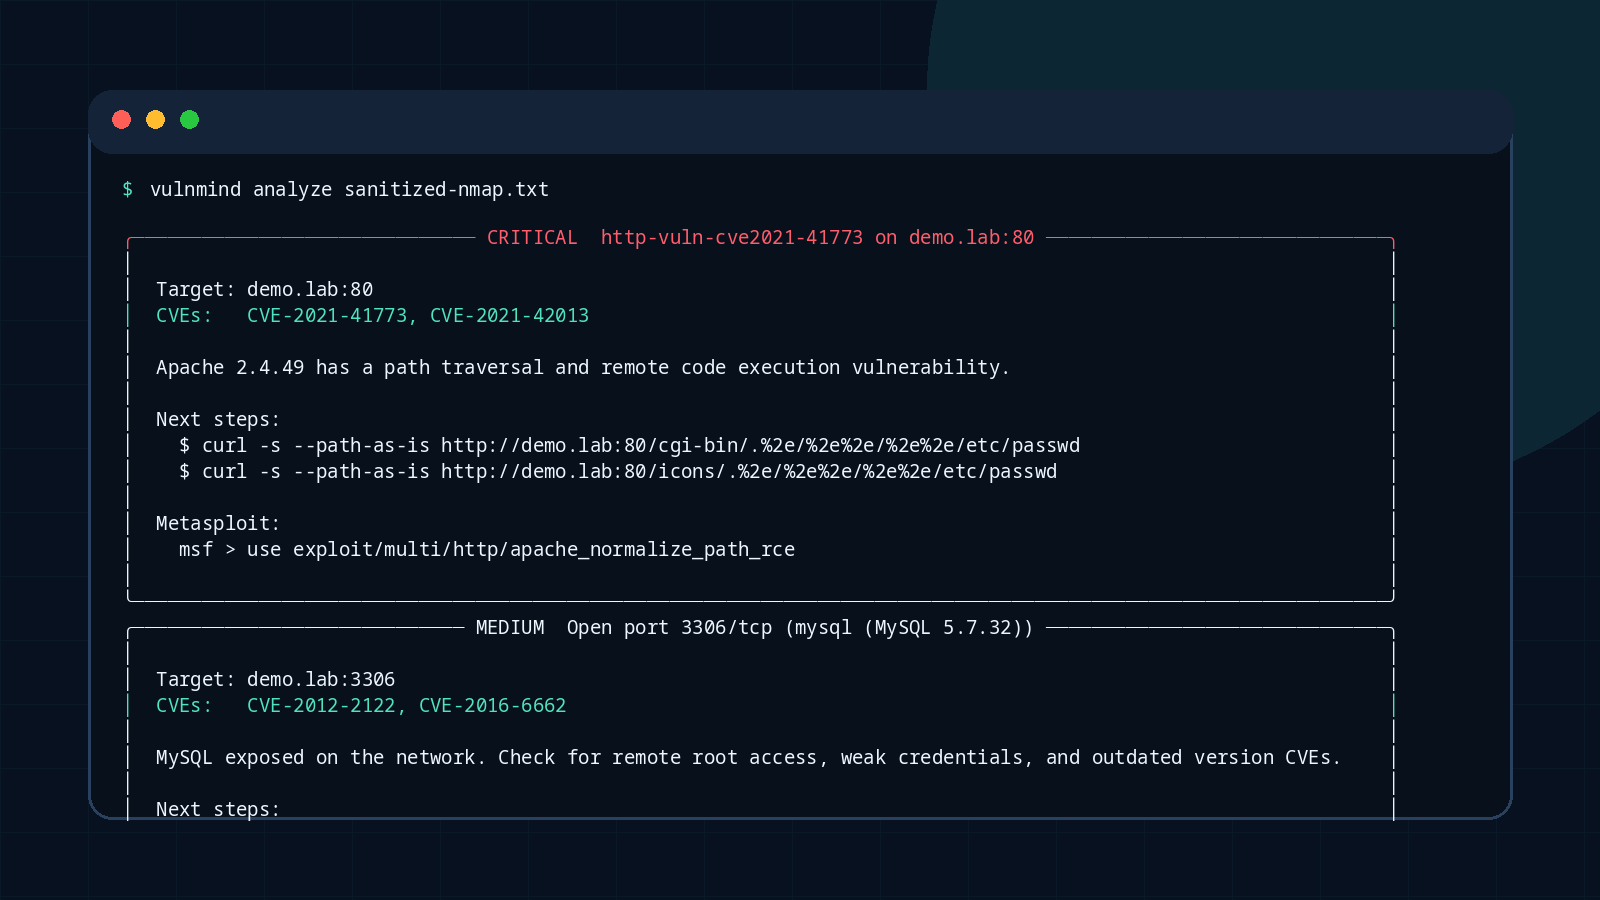
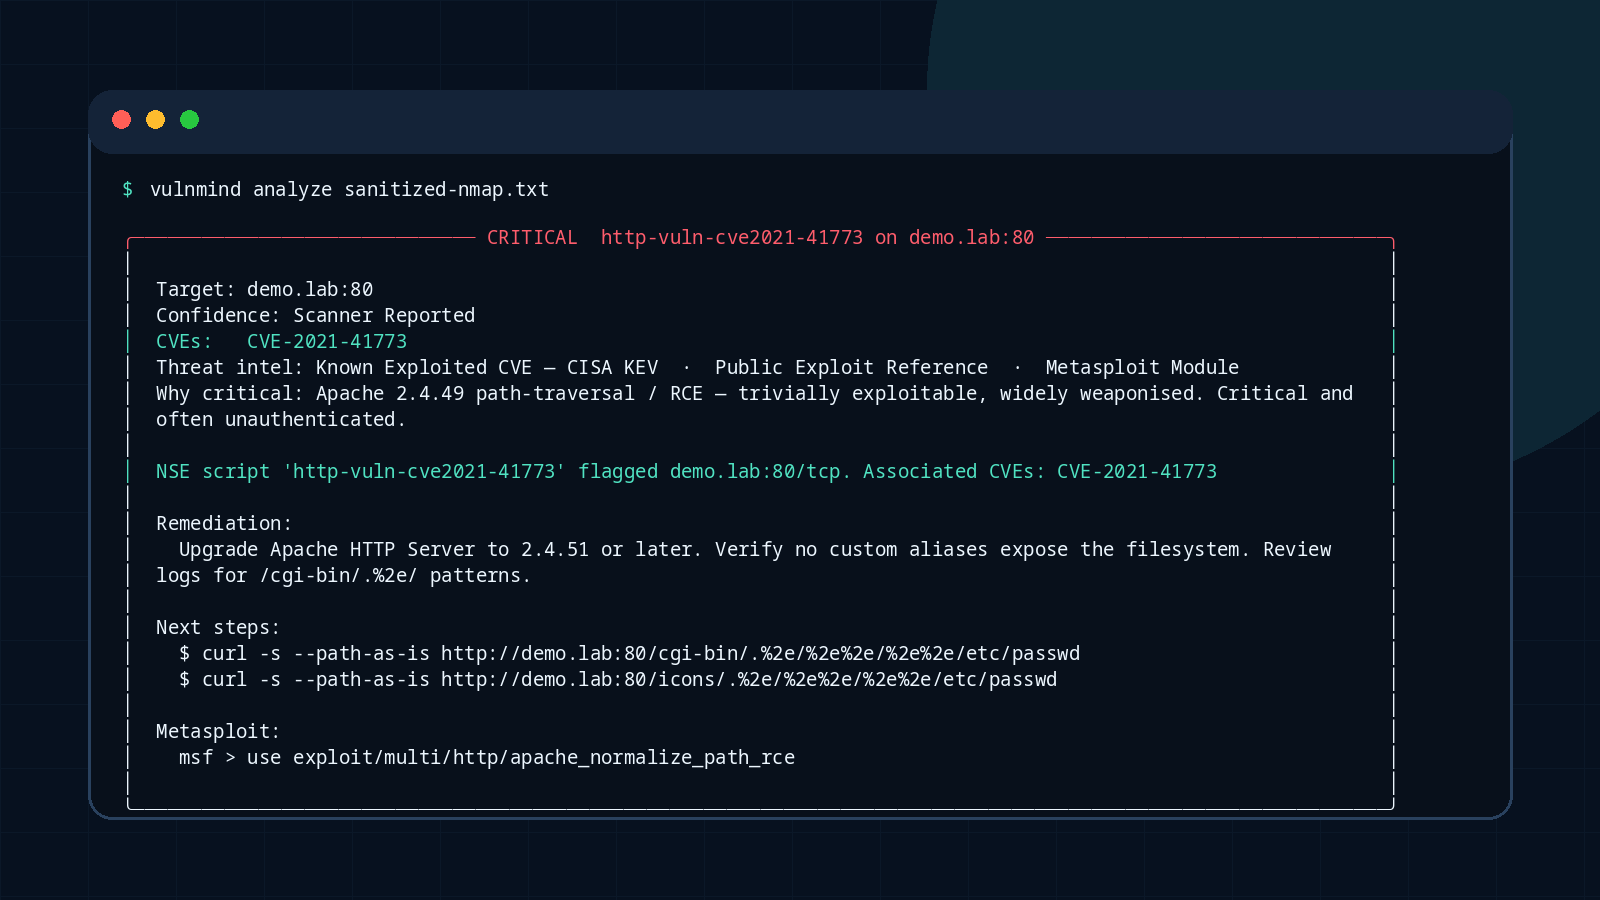
Refresh launch media for current main

diff --git a/tools/demo/render_media.py b/tools/demo/render_media.py
@@ -155,7 +155,11 @@ def terminal_image(size, output: str, command: str, start: str | None = None,
 
 
 def run_cli() -> tuple[str, str, Path]:
-    env = os.environ | {"NO_COLOR": "1", "COLUMNS": "112"}
+    env = os.environ | {
+        "NO_COLOR": "1",
+        "COLUMNS": "112",
+        "VULNMIND_UPDATE_CHECKS": "off",
+    }
     command = [str(CLI), "analyze", str(FIXTURE), str(MSF_FIXTURE)]
     result = subprocess.run(command, cwd=ROOT, env=env, text=True,
                             stdout=subprocess.PIPE, stderr=subprocess.STDOUT, check=True)
@@ -218,11 +222,11 @@ VulnMind turns scanner output into prioritized security findings.
 
 3
 00:00:13,000 --> 00:00:28,000
-Not just CVEs: target, evidence, context and priority.
+Not just CVEs: confidence, evidence, context and priority.
 
 4
 00:00:28,000 --> 00:00:40,000
-Nmap, Nikto and Metasploit. Terminal and PDF.
+Nmap, Nuclei, Nikto and Metasploit. Terminal, JSON and PDF.
 
 5
 00:00:40,000 --> 00:00:52,000
@@ -230,7 +234,7 @@ Open source at github.com/Sombra-1/vulnmind
 """)
     (OUTPUT / "vulnmind-linkedin-post.md").write_text("""I built VulnMind to make scanner output easier to act on.
 
-It parses Nmap XML/text, Nikto text, and Metasploit console output, normalizes
+It parses Nmap XML/text, Nuclei JSONL, Nikto text, and Metasploit console output, normalizes
 the findings, and uses an offline knowledge base to add priority, CVE context,
 suggested verification commands, and relevant Metasploit modules. The result
 stays explainable: you can trace each finding back to the scanner evidence.
@@ -261,8 +265,8 @@ Only test systems you own or are explicitly authorized to assess.
 
 - 0–3s: Which scanner issue matters?
 - 3–13s: Raw file to prioritized findings.
-- 13–28s: Evidence, target, CVE context, and priority.
-- 28–40s: Supported inputs and outputs, then PDF.
+- 13–28s: Confidence, evidence, target, CVE context, and priority.
+- 28–40s: Supported inputs and terminal/JSON/PDF outputs.
 - 40–52s: Open-source closing card and repository URL.
 
 No narration or music is included; every message is burned into the image.
@@ -340,8 +344,8 @@ def main():
     report = pdf_preview.resize((1920, 1080), Image.Resampling.LANCZOS)
     pipeline = card(
         (1920, 1080), "One offline analysis pipeline.",
-        "Content detection → parsing → normalization → knowledge matching → terminal / PDF",
-        "Nmap XML + text · Nikto text · Metasploit console",
+        "Detection → parsing → matching → optional NVD / KEV / exploit intelligence → outputs",
+        "Nmap · Nuclei · Nikto · Metasploit → Terminal · JSON · PDF",
     )
     close = card(
         (1920, 1080), "Open source. Built for authorized testing.",
@@ -367,8 +371,8 @@ def main():
         start="╭", max_lines=18,
     )
     li_context = card(
-        (1080, 1350), "Not just CVEs.\nEvidence, context and priority.",
-        "CRITICAL · demo.lab:80 · CVE-2021-41773",
+        (1080, 1350), "Not just CVEs.\nConfidence, context and priority.",
+        "CRITICAL · Scanner Reported · demo.lab:80 · CVE-2021-41773",
         "Offline knowledge match",
         ["WHY IT MATTERS", "Apache 2.4.49 path traversal / RCE context",
          "", "NEXT STEP", "Version-specific verification command",
@@ -376,8 +380,8 @@ def main():
         RED,
     )
     li_report = card(
-        (1080, 1350), "Nmap · Nikto · Metasploit",
-        "Terminal · PDF",
+        (1080, 1350), "Nmap · Nuclei · Nikto · Metasploit",
+        "Terminal · JSON · PDF",
         "Supported today",
         ["$ vulnmind analyze sanitized-nmap.txt --report pdf",
          "", "REPORT SAVED", "vulnmind_report.pdf"],

diff --git a/README.md b/README.md
@@ -1,5 +1,7 @@
 # VulnMind
 
+![VulnMind — turn scanner output into prioritized, explainable security findings](docs/assets/vulnmind-banner.png)
+
 [![CI](https://github.com/Sombra-1/vulnmind/actions/workflows/ci.yml/badge.svg)](https://github.com/Sombra-1/vulnmind/actions/workflows/ci.yml)
 [![Python](https://img.shields.io/badge/python-3.10%2B-blue.svg)](https://www.python.org/)
 [![License: MIT](https://img.shields.io/badge/License-MIT-green.svg)](LICENSE)
@@ -7,6 +9,13 @@
 Security scan analyzer for pentesters. Parse nmap, Nuclei, nikto, and Metasploit console output into structured findings with explicit match confidence, CVE/CVSS context, CISA Known Exploited Vulnerabilities (KEV), public ExploitDB references, remediation advice, suggested commands, and Metasploit modules. Finding analysis is offline by default and requires no API key; normal text output may separately check GitHub Releases for an update.
 
 VulnMind is not a scanner replacement. It turns scanner output into prioritized, explainable findings you can review, pipe to JSON, or export as a PDF report.
+
+![VulnMind analyzing sanitized local scanner output](docs/assets/vulnmind-demo.gif)
+
+![Watch the VulnMind technical demo](docs/assets/video-thumbnail.png)
+
+The full-resolution video stays out of normal Git history. See the
+[reproducible demo package](tools/demo/README.md) to render and verify it.
 
 ```
 vulnmind analyze scan.xml --deep

diff --git a/tools/demo/README.md b/tools/demo/README.md
@@ -24,8 +24,8 @@ tools/demo/verify_media.sh
 The first command installs VulnMind into `.venv`. Rendering writes repository
 images to `docs/assets/` and local video deliverables to ignored `output/`.
 
-`--enrich` is intentionally absent from the deterministic recording: it uses
-the optional Groq integration and cannot be reproduced offline. VulnMind does
-not currently implement Nuclei input, JSON output, CISA KEV lookup, official
-CVSS lookup, or an evidence-confidence field, so the media makes none of those
-claims.
+`--enrich` and `--deep` are intentionally absent from the deterministic
+recording: Groq, NVD, CISA KEV, and ExploitDB refreshes require network access.
+The media uses offline parsing and matching while accurately listing the
+implemented Nmap, Nuclei, Nikto, Metasploit, JSON, PDF, confidence, CVSS, KEV,
+and exploit-intelligence capabilities.
